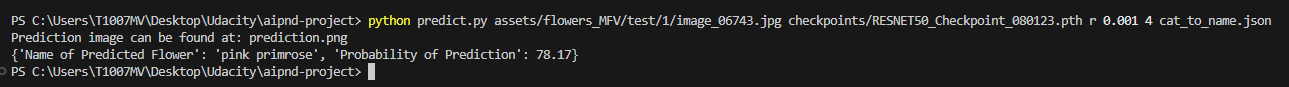
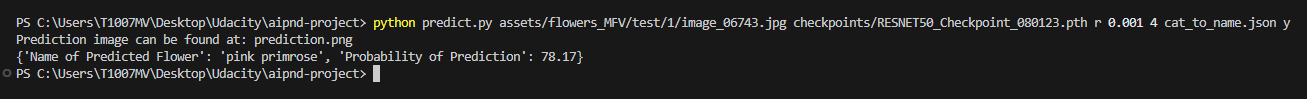
Enables GPU option for user in predict.py

Changed region(s): [[0.0, 0.3448, 0.4655, 0.9195], [0.0, 0.1609, 0.993, 0.3218]]

diff --git a/helper.py b/helper.py
@@ -143,14 +143,17 @@ def process_image(image):
 
     return imNp
 
-def predict(image_path, model, class_to_idx, topk=5):
+def predict(image_path, model, class_to_idx, topk=5, gpu='y'):
     ''' Predict the class (or classes) of an image using a trained deep learning model.
     '''
     # Open the image via the path and process the image per our previous function
     image = Image.open(image_path)
     image = process_image(image)
 
-    device = torch.device("cuda" if torch.cuda.is_available() else "cpu")
+    if gpu == 'y':
+        device = torch.device("cuda" if torch.cuda.is_available() else "cpu")
+    else:
+        device = 'cpu'
 
     # imTen = torch.from_numpy(image)
     imTen = torch.tensor(image).float()
@@ -195,7 +198,7 @@ def predict(image_path, model, class_to_idx, topk=5):
 
     return probs, classes
 
-def final_output(image_path, model, class_to_idx, topk, file):
+def final_output(image_path, model, class_to_idx, topk, file, gpu):
 
     '''
         :image_path - this is the path of the image you want to check
@@ -207,7 +210,7 @@ def final_output(image_path, model, class_to_idx, topk, file):
     # Getting the picture of the image that you are investigating
     image = Image.open(image_path)
 
-    probs, classes = predict(image_path, model, class_to_idx, topk)
+    probs, classes = predict(image_path, model, class_to_idx, topk, gpu)
 
     cat_to_name = label_mapping(file)
 

diff --git a/predict.py b/predict.py
@@ -28,6 +28,7 @@ if __name__ == "__main__":
     parser.add_argument('learning_rate', help="learning rate that was used in train.py")
     parser.add_argument('topk', help="number of classes to show")
     parser.add_argument('file', help="cat_to_name.json")
+    parser.add_argument('gpu', help="y")
     args = parser.parse_args()
     ########################################################################################################################
 
@@ -111,6 +112,7 @@ if __name__ == "__main__":
     ########################################################################################################################
     topk = int(args.topk)
     file = args.file
-    dict = helper.final_output(args.prediction_image_path, model_vgg16, class_to_idx, topk, file)
+    gpu = args.gpu
+    dict = helper.final_output(args.prediction_image_path, model_vgg16, class_to_idx, topk, file, gpu)
     print(dict)
     ########################################################################################################################
